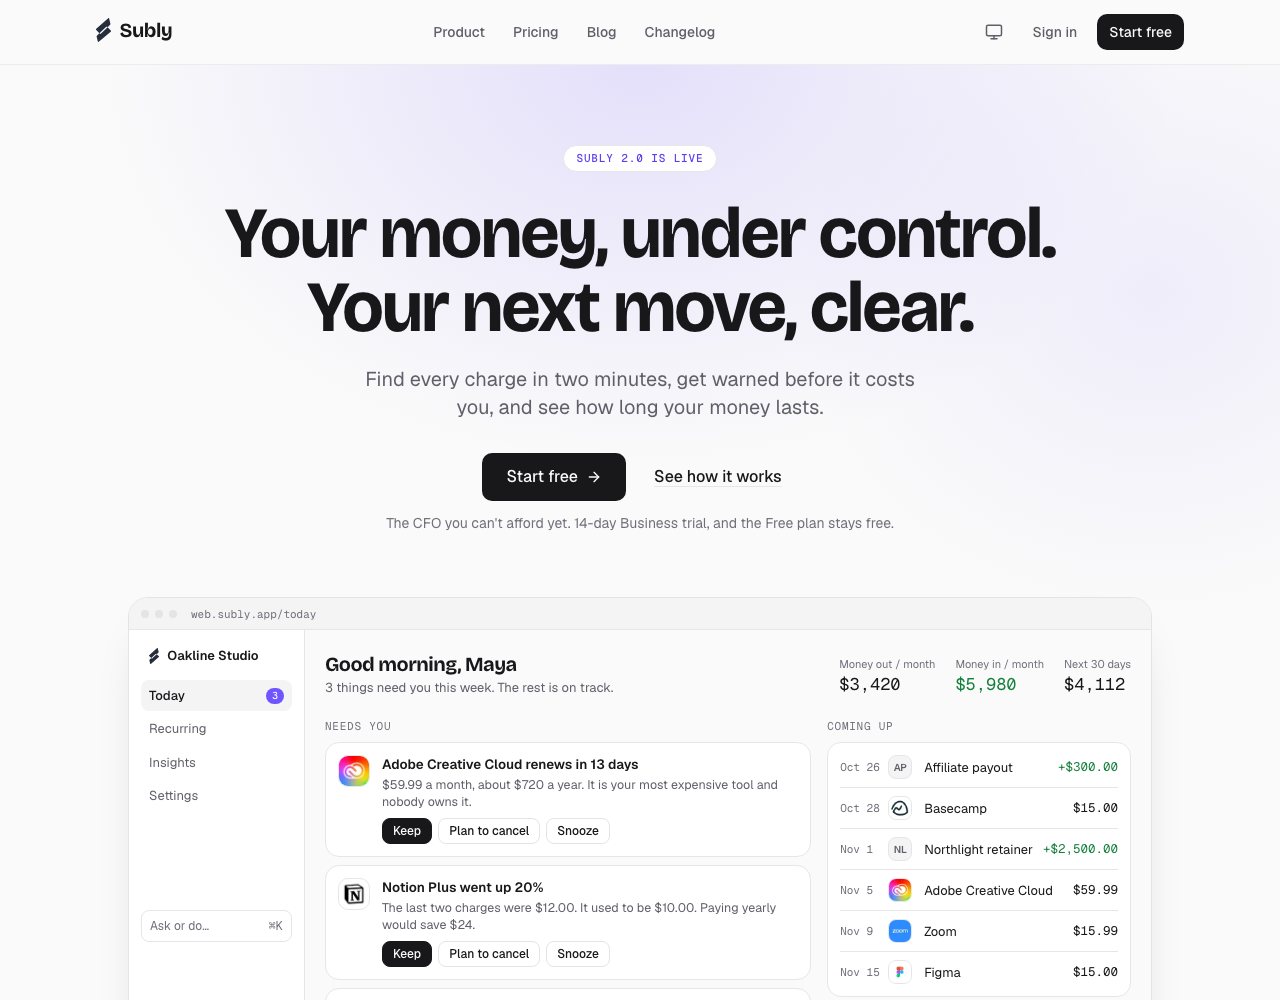
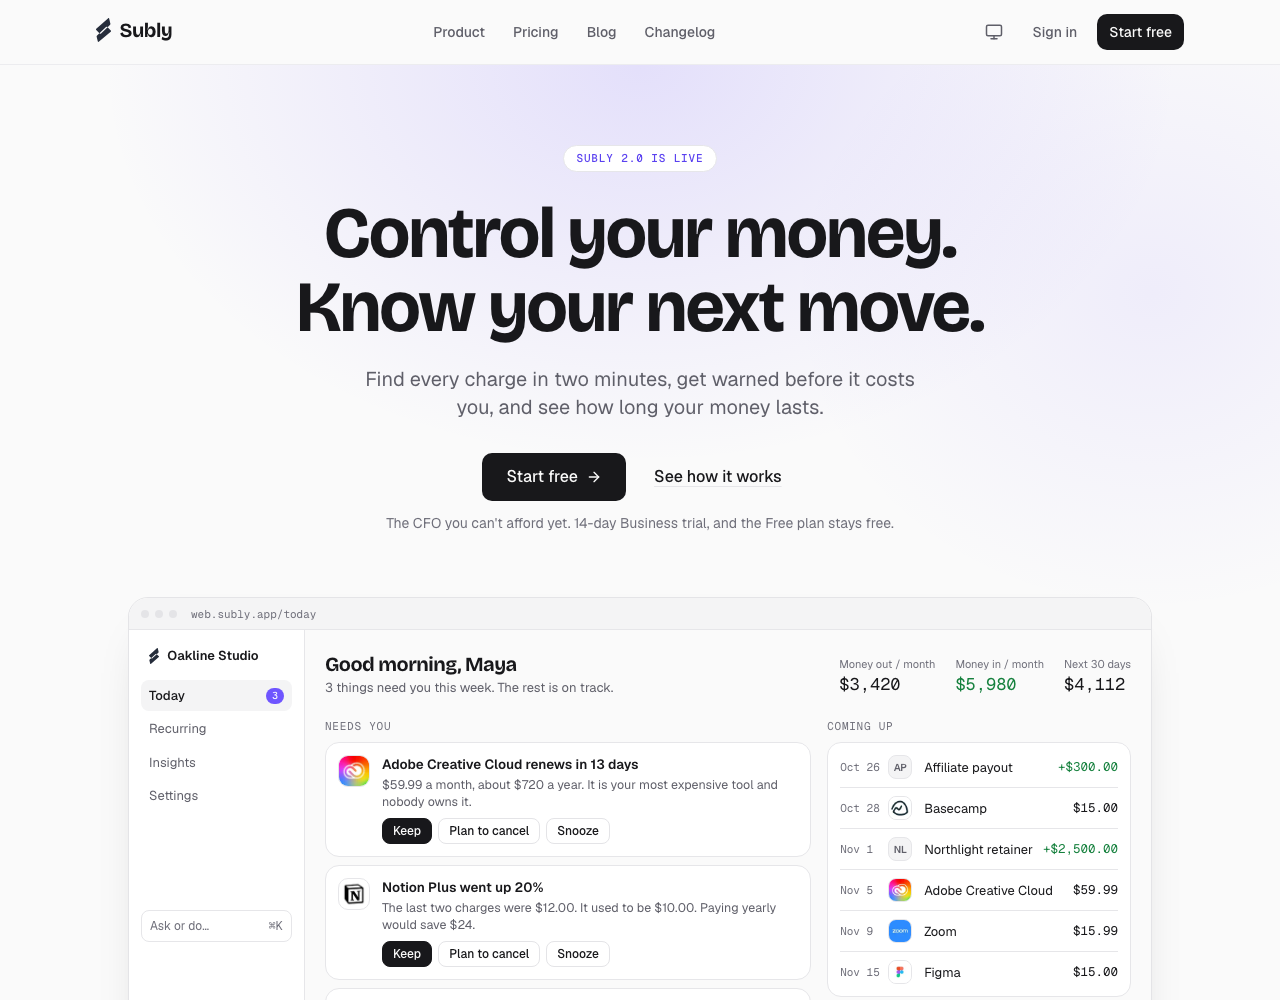
Hero headline: Control your money. Know your next move.

Changed region(s): [[0.1562, 0.186, 0.8438, 0.341]]

diff --git a/app/(site)/layout.tsx b/app/(site)/layout.tsx
@@ -11,7 +11,7 @@ import '../globals.css'
 export const metadata: Metadata = {
   metadataBase: new URL(SITE_URL),
   title: {
-    default: 'Subly: your money under control, your next move clear',
+    default: 'Subly: control your money, know your next move',
     template: '%s | Subly',
   },
   description: DEFAULT_DESCRIPTION,
@@ -21,10 +21,10 @@ export const metadata: Metadata = {
     type: 'website',
     siteName: SITE_NAME,
     url: SITE_URL,
-    title: 'Subly: your money under control, your next move clear',
+    title: 'Subly: control your money, know your next move',
     description: DEFAULT_DESCRIPTION,
     locale: 'en_US',
-    images: [{ url: '/og', width: 1200, height: 630, alt: 'Subly: your money under control, your next move clear' }],
+    images: [{ url: '/og', width: 1200, height: 630, alt: 'Subly: control your money, know your next move' }],
   },
   twitter: { card: 'summary_large_image', site: '@sublyweb', images: ['/og'] },
   icons: { icon: [{ url: '/favicon.ico' }, { url: '/icon.png', type: 'image/png' }], apple: '/apple-icon.png' },

diff --git a/components/home/hero.tsx b/components/home/hero.tsx
@@ -8,8 +8,8 @@ export function Hero({
   eyebrow = 'Subly 2.0 is live',
   title = (
     <>
-      <span className="block">Your money, under control.</span>
-      <span className="block">Your next move, clear.</span>
+      <span className="block">Control your money.</span>
+      <span className="block">Know your next move.</span>
     </>
   ),
   sub = 'Find every charge in two minutes, get warned before it costs you, and see how long your money lasts.',

diff --git a/app/(site)/page.tsx b/app/(site)/page.tsx
@@ -14,7 +14,7 @@ import { Testimonials } from '@/components/home/testimonials'
 import { DEFAULT_DESCRIPTION, SITE_URL } from '@/lib/site'
 
 export const metadata: Metadata = {
-  title: { absolute: 'Subly: your money under control, your next move clear' },
+  title: { absolute: 'Subly: control your money, know your next move' },
   description: DEFAULT_DESCRIPTION,
   alternates: { canonical: '/' },
 }

diff --git a/app/og/route.tsx b/app/og/route.tsx
@@ -4,7 +4,7 @@ import { ImageResponse } from 'next/og'
 
 const font = (name: string) => readFile(path.join(process.cwd(), 'assets/fonts', name))
 
-const DEFAULT_TITLE = 'Your money, under control. Your next move, clear.'
+const DEFAULT_TITLE = 'Control your money. Know your next move.'
 
 export async function GET(request: Request) {
   const { searchParams } = new URL(request.url)
